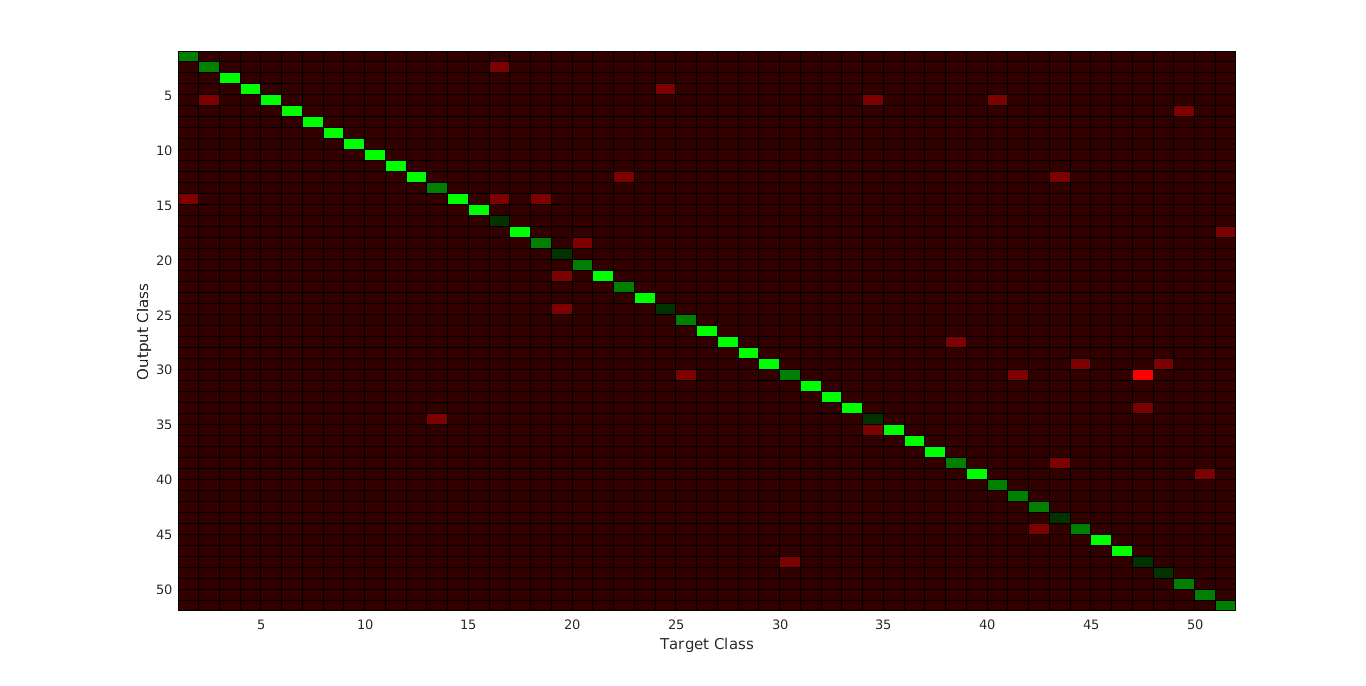
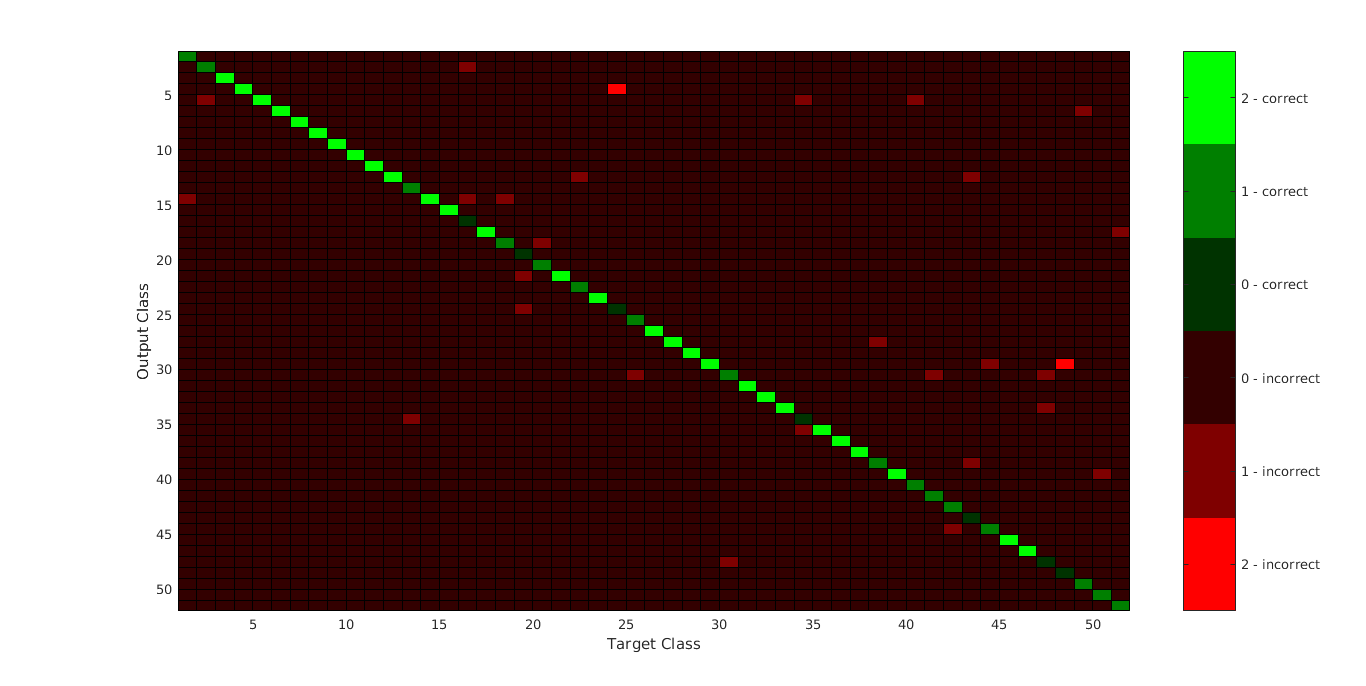
Fixed PlotConfusionMatrix

diff --git a/scripts/PlotConfusionMatrix.m b/scripts/PlotConfusionMatrix.m
@@ -11,32 +11,36 @@ confusionMatrix = zeros(numClasses); % create matrix of zeros
 for testIndex = 1:numTests
     targetClass = find(targetData(:,testIndex) == 1);
     outputClass = find(outputData(:,testIndex) == 1);
-    confusionMatrix(outputClass, targetClass) = confusionMatrix(targetClass, outputClass) + 1;
+    
+    confusionMatrix(outputClass, targetClass) = confusionMatrix(outputClass, targetClass) + 1;
 end
 
 % confusionMatrix is the true version, formatCM is a copy to be formatted for plotting
-formatConfusionMatrix = -(confusionMatrix + ones(numClasses)); %set everything to negative
+formatConfusionMatrix = -confusionMatrix; %set everything to negative
 
 for i = 1:size(formatConfusionMatrix, 2)
-    formatConfusionMatrix(i,i) = -formatConfusionMatrix(i,i); % set diagonal cells back to positive
+    formatConfusionMatrix(i,i) = -formatConfusionMatrix(i,i) + 1; % set diagonal cells back to positive
 end
 
 pcolor(formatConfusionMatrix) %plot format copy
 
+max(max(formatConfusionMatrix))
+min(min(formatConfusionMatrix))
+
+% set up colourmap
 map = [ 1,      0,      0;
         0.5,    0,      0;
         0.2,    0,      0;
-        0,      0,      0;
-        0,      0,      0;
         0,      0.2,    0;
         0,      0.5,    0;
         0,      1,      0];
 
 colormap(map)
-
-xlabel('Target Class');
-ylabel('Output Class');
-set(gca,'YDir','reverse');
+labels = {'2 - incorrect', '1 - incorrect', '0 - incorrect', '0 - correct', '1 - correct', '2 - correct'};
+lcolorbar(labels)
+xlabel('Target Class')
+ylabel('Output Class')
+set(gca,'YDir','reverse')
 
 
 end
